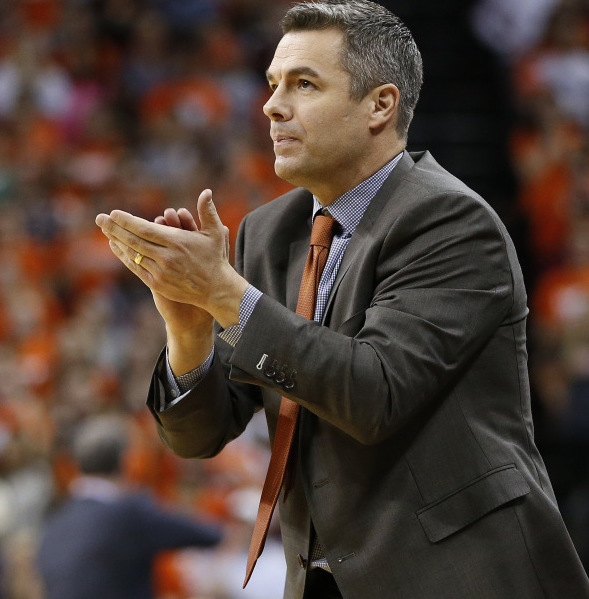
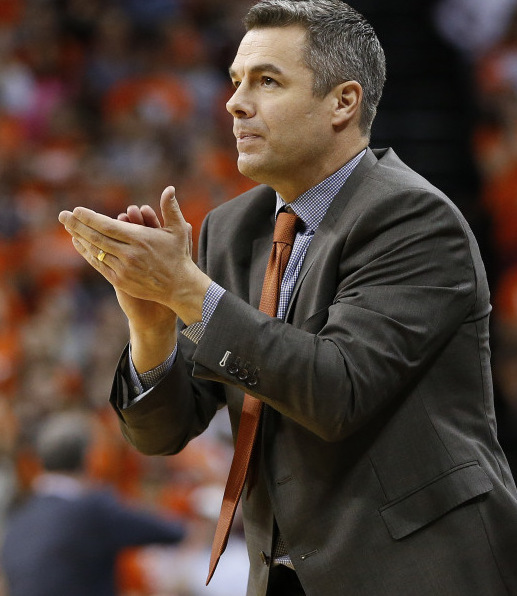
header adds

diff --git a/index.php b/index.php
@@ -36,8 +36,6 @@
 
   .pic-links{
   	float: left;
-  	width: 638px;
-  	height: 810px;
   }
   #first-pic{
 
@@ -56,14 +54,14 @@
  	</div>	
  </div>
  <div id = "second-level">
- 	<div id = "first-pic" class = "pic-links">
- 		<img src = "web_design_pic.png" width = "638" height = "810">
+ 	<div id = "first-pic">
+ 		<img class = "pic-links" src = "web_design_pic.png" width = "638" height = "auto">
  	</div>
- 	<div id = "second-pic" class = "pic-links">
- 		<img src = "writing.jpeg" width = "638" height = "810">
+ 	<div id = "second-pic">
+ 		<img class = "pic-links" src = "writing.jpeg" width = "638" height = "auto">
  	</div>
- 	<div id = "third-pic" class = "pic-links">
- 		<img src = "bball.jpg" width = "638" height = "810">
+ 	<div id = "third-pic" >
+ 		<img class = "pic-links" src = "bball.jpg" width = "638" height = "auto">
  	</div>
  	</div>	
  </div>
